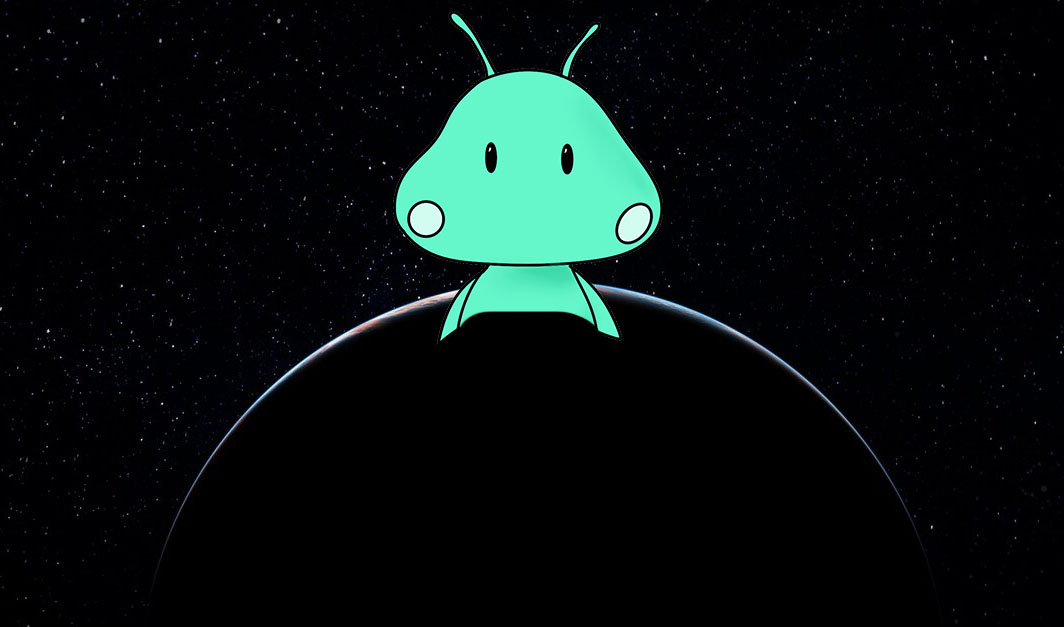
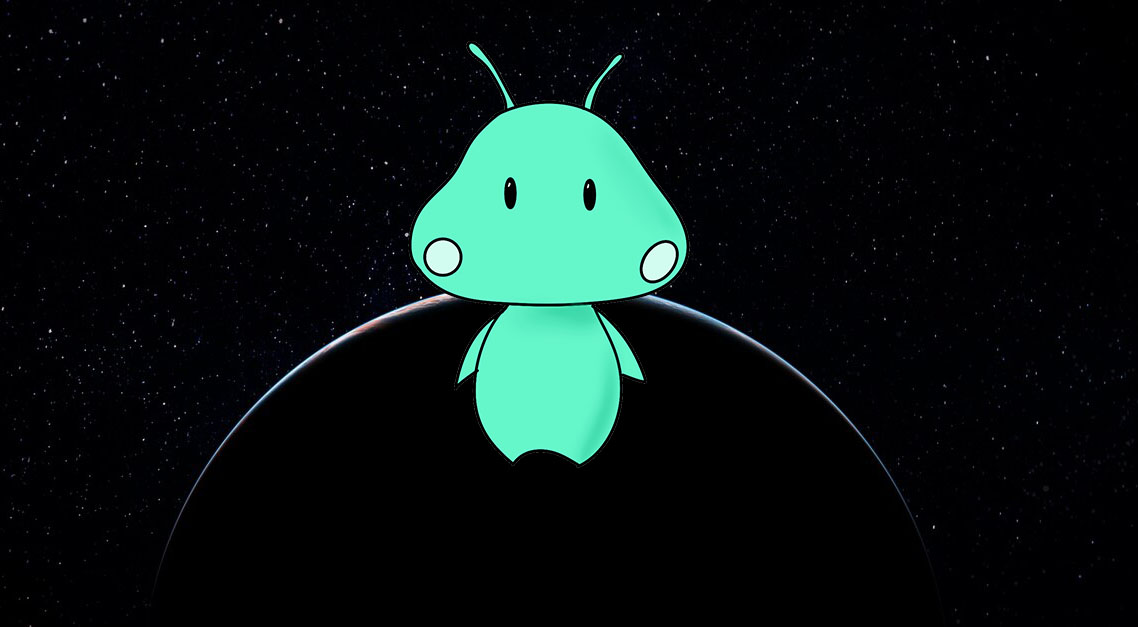
background fix and cosmic literature

diff --git a/style_t.css b/style_t.css
@@ -1,36 +1,45 @@
 body{
 	margin:0;
 	padding:0;
-	font-family: 'Aclonica';font-size: 22px;
-	
-	
+	font-family: 'Aclonica';font-size: 22px;	
 }
 
 .background{
 	background-image: url(background.jpg);
 	background-repeat: no-repeat;
-    background-size: cover;
+	height: 100%;
+	background-color: black;
+	background-position: center; 
+
 }
 .background1{
 	background-image: url(up1.jpg);
 	background-repeat: no-repeat;
-    background-size: cover;
+	height: 100%;
+	background-color: black;
+	background-position: center;
 }
 .background2{
 	background-image: url(down.jpg);
 	background-repeat: no-repeat;
-    background-size: cover;
+	height: 100%;
+	background-color: black;
+	background-position: center;
 }
 .background3{
-	background-image: url(clean.jpg);
+	background-image: url(lay.jpg);
 	background-repeat: no-repeat;
-    background-size: cover;
+	height: 100%;
+	background-color: black;
+	background-position: center;
 }
 
 .background4{
 	background-image: url(lay.jpg);
 	background-repeat: no-repeat;
-    background-size: cover;
+	height: 100%;
+	background-color: black;
+	background-position: center;
 }
 
 .button1{
@@ -121,13 +130,29 @@ body{
   text-shadow: 4px 4px black;
 	
 }
+.child{
+	float:left;
+	width: 50%
+	
+}
+.just{
+	color: white;
+	text-shadow: 4px 4px black;
+}
 
 .text_info{
-  padding-top: 50px;
+  padding-top: 5px;
   color: white;
   text-align:right;
   text-shadow: 4px 4px black;
   padding-right:50px;
+}
+.text_left{
+  padding-top: 5px;
+  color: white;
+  text-align:left;
+  text-shadow: 4px 4px black;
+  padding-left:50px;
 }
 
 .pad{

diff --git a/start.html b/start.html
@@ -2,12 +2,12 @@
 <html>
 <head>
     <link href='https://fonts.googleapis.com/css?family=Aclonica' rel='stylesheet'>
-    <link rel="stylesheet" href="style.css?id=2">
+    <link rel="stylesheet" href="style.css?id=1">
 	<meta name="viewport" content="width=device-width, initial-scale=1, maximum-scale=1, user-scalable=0">
 	<meta charset="UTF-8"></meta>
 </head>
 	<body  onload="init()" class="background">
-        <canvas id="canvas-id" width="1800" height="600">
+        <canvas id="canvas-id" style="vertical-align:top">
             <script>
 		  	   let updateTime = 10; // in ms
 		  	   const canvas = document.getElementById("canvas-id");

diff --git a/style.css b/style.css
@@ -21,8 +21,9 @@ body{
 .background{
 	background-image: url(backg.jpg);
 	background-repeat: no-repeat;
-    background-size: cover;
-	background-position:center;
+	height: 100%;
+	background-color: black;
+	background-position: center; 
 	
 }
 
